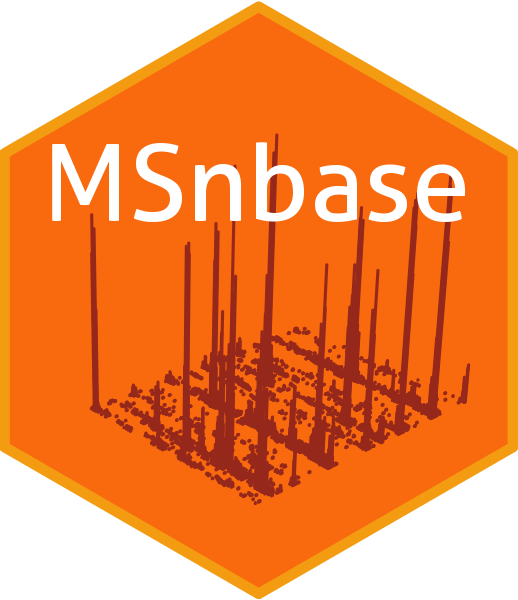
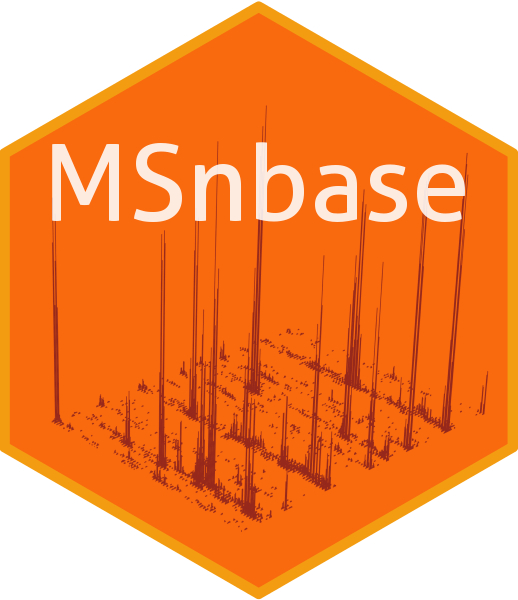
update MSnbase sticker with hexSticker

Changed region(s): [[0.0927, 0.21, 0.9575, 0.87]]

diff --git a/MSnbase/README.md b/MSnbase/README.md
@@ -3,6 +3,9 @@
 * Package URL: http://bioconductor.org/packages/MSnbase
 * Maintainer: [Laurent Gatto](https://github.com/lgatto/)
 * Contributors: Johannes Rainer, Sebastian Gibb
+* License: Creative Commons Attribution
+  [CC-BY](https://creativecommons.org/licenses/by/2.0/). Feel free to
+  share and adapt, but don't forget to credit the author.
 
 <img src="./MSnbase.png" height="200">
 
